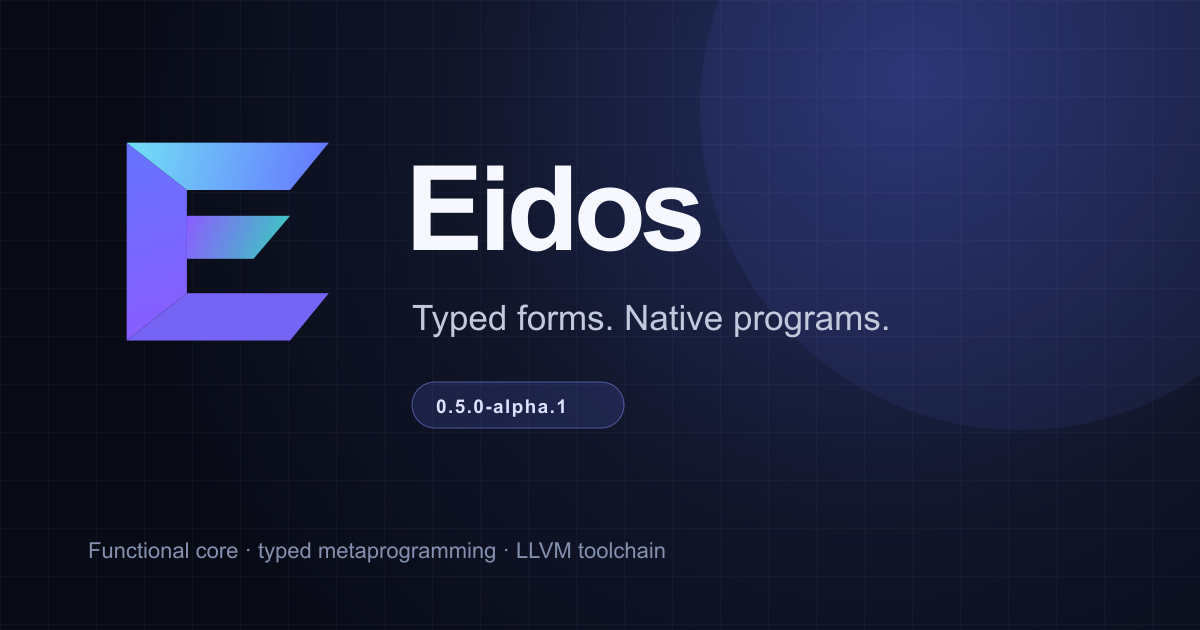
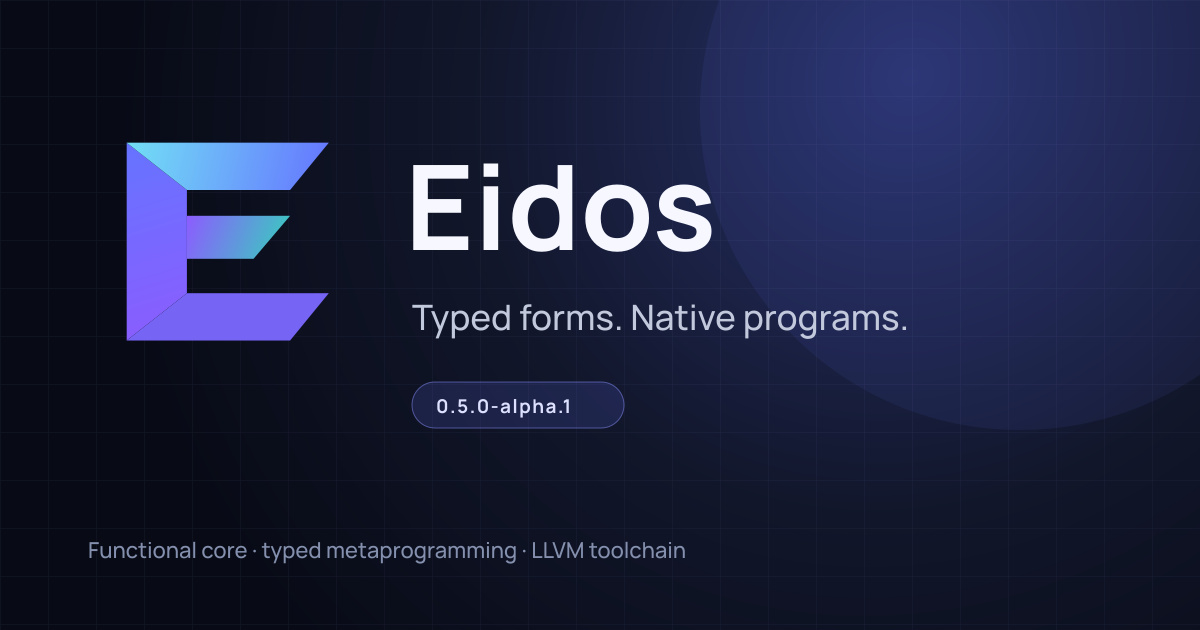
fix(brand): make social assets reproducible

diff --git a/BRAND.md b/BRAND.md
@@ -10,8 +10,13 @@ semantic pipeline.
 - `public/brand/eidos-mark.svg`: primary full-color mark;
 - `public/brand/eidos-mark-mono.svg`: single-color mark using `currentColor`;
 - `public/favicon.svg`: small-size mark on the Eidos ink background;
-- `public/brand/eidos-social.svg`: editable social-card source;
+- `scripts/eidos-social.template.svg`: editable social-card layout;
+- `public/brand/eidos-social.svg`: generated social-card vector with text converted to portable paths;
 - generated PNG assets are produced by `npm run brand`.
+
+The social-card generator uses the bundled Manrope variable font under the
+SIL Open Font License. Converting text to paths keeps the published card
+identical across build platforms.
 
 ## Colors
 